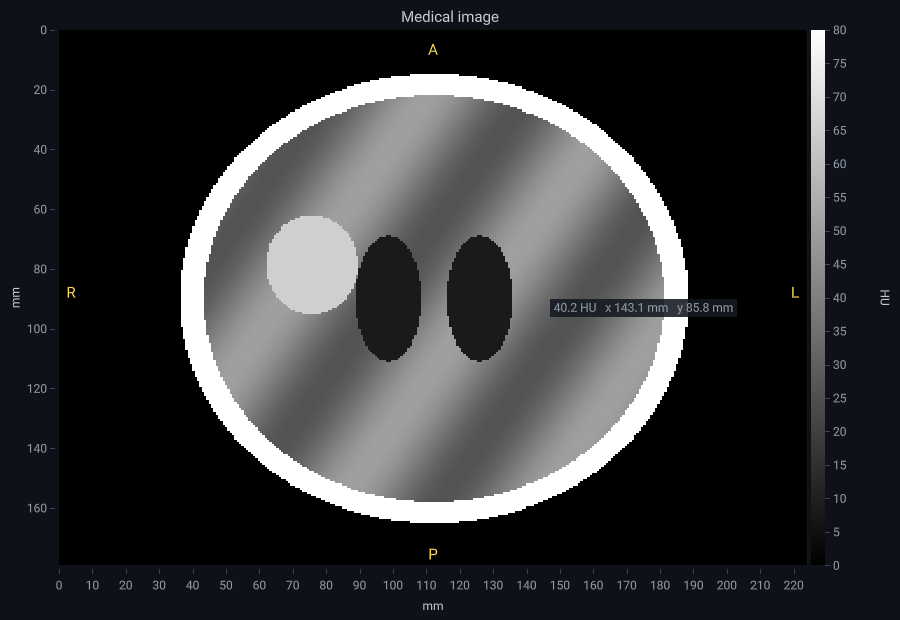
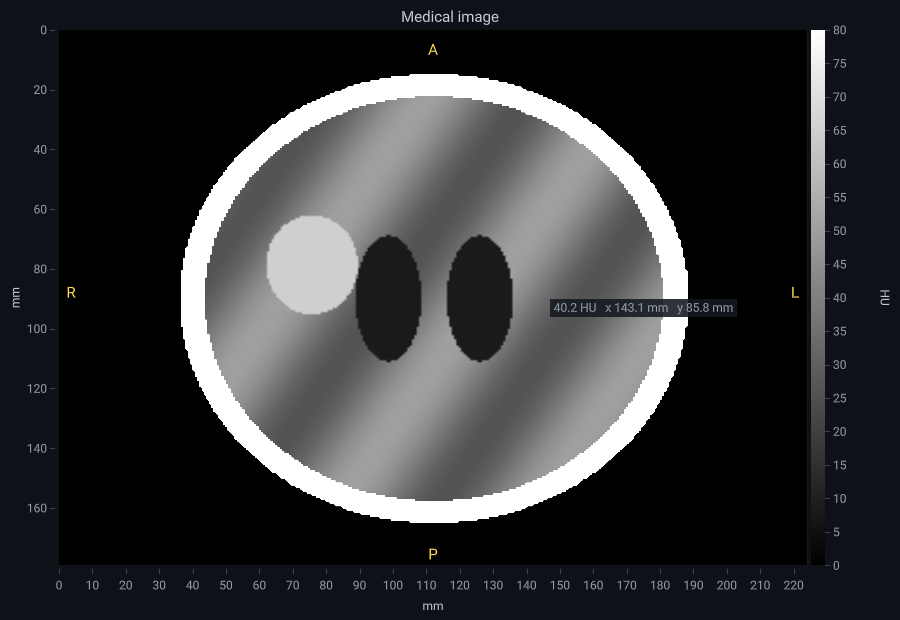
Improve medical image interpolation

Changed region(s): [[0.4667, 0.4597, 0.4978, 0.4903]]

diff --git a/src/Tachyon.Charts.Wpf/ChartElements.cs b/src/Tachyon.Charts.Wpf/ChartElements.cs
@@ -741,6 +741,10 @@ public sealed class HeatmapSeries : RasterSeriesElement
     public static readonly DependencyProperty YStepProperty = DependencyProperty.Register(
         nameof(YStep), typeof(double), typeof(HeatmapSeries), new PropertyMetadata(1.0, OnChanged));
 
+    /// <summary>Identifies the <see cref="IsInterpolated"/> property.</summary>
+    public static readonly DependencyProperty IsInterpolatedProperty = DependencyProperty.Register(
+        nameof(IsInterpolated), typeof(bool), typeof(HeatmapSeries), new PropertyMetadata(false, OnChanged));
+
     /// <summary>Gets or sets the left edge of the first column.</summary>
     public double XStart
     {
@@ -769,6 +773,13 @@ public sealed class HeatmapSeries : RasterSeriesElement
         set => SetValue(YStepProperty, value);
     }
 
+    /// <summary>Gets or sets a value indicating whether adjacent cell colors are blended.</summary>
+    public bool IsInterpolated
+    {
+        get => (bool)GetValue(IsInterpolatedProperty);
+        set => SetValue(IsInterpolatedProperty, value);
+    }
+
     /// <inheritdoc />
     internal override ChartSeries? Build(AxisBase x, AxisBase y)
     {
@@ -789,6 +800,7 @@ public sealed class HeatmapSeries : RasterSeriesElement
             XStep = XStep,
             YStart = YStart,
             YStep = YStep,
+            IsInterpolated = IsInterpolated,
         };
     }
 }
@@ -1271,6 +1283,7 @@ internal static class ChartElementFactory
                 XStep = heatmap.XStep,
                 YStart = heatmap.YStart,
                 YStep = heatmap.YStep,
+                IsInterpolated = heatmap.IsInterpolated,
             },
             _ => throw new NotSupportedException($"{definition.GetType().Name} has no element."),
         };

diff --git a/src/Tachyon.Charts.Core/Fluent/ChartBuilder.cs b/src/Tachyon.Charts.Core/Fluent/ChartBuilder.cs
@@ -157,6 +157,9 @@ public abstract record RasterDefinition : SeriesDefinition
 /// <summary>A described heatmap.</summary>
 public sealed record HeatmapDefinition : RasterDefinition
 {
+    /// <summary>Gets a value indicating whether adjacent cell colors are blended.</summary>
+    public bool IsInterpolated { get; init; }
+
     /// <summary>Gets the left edge of the first column.</summary>
     public double XStart { get; init; }
 
@@ -186,6 +189,7 @@ public sealed record HeatmapDefinition : RasterDefinition
         YStart = YStart,
         YStep = YStep,
         XEdges = XEdges,
+        IsInterpolated = IsInterpolated,
         Mask = Mask,
         YEdges = YEdges,
     };
@@ -727,6 +731,11 @@ public sealed class HeatmapBuilder
     /// <returns>This builder.</returns>
     public HeatmapBuilder Edges(IReadOnlyList<double>? xEdges, IReadOnlyList<double>? yEdges) =>
         Change(Definition with { XEdges = xEdges, YEdges = yEdges });
+
+    /// <summary>Blends adjacent cell colors when the heatmap is enlarged.</summary>
+    /// <param name="isInterpolated">Whether to blend adjacent cell colors.</param>
+    /// <returns>This builder.</returns>
+    public HeatmapBuilder Interpolated(bool isInterpolated = true) => Change(Definition with { IsInterpolated = isInterpolated });
 
     /// <summary>Shows only the cells inside polygons, for example the shape of a region.</summary>
     /// <param name="polygons">The polygons.</param>

diff --git a/src/Tachyon.Charts.Avalonia/ChartElements.cs b/src/Tachyon.Charts.Avalonia/ChartElements.cs
@@ -683,6 +683,9 @@ public sealed class HeatmapSeries : RasterSeriesElement
     /// <summary>Gets or sets the lower edge of the first row.</summary>
     public double YStart { get; set; }
 
+    /// <summary>Gets or sets a value indicating whether adjacent cell colors are blended.</summary>
+    public bool IsInterpolated { get; set; }
+
     /// <inheritdoc />
     internal override ChartSeries? Build(AxisBase x, AxisBase y) => DataSource is null ? null : new Core.Series.HeatmapSeries(Source<HeatmapData>(), x, y, GetColorAxis(string.Empty))
     {
@@ -691,6 +694,7 @@ public sealed class HeatmapSeries : RasterSeriesElement
         XStep = XStep,
         YStart = YStart,
         YStep = YStep,
+        IsInterpolated = IsInterpolated,
     };
 }
 
@@ -1089,6 +1093,7 @@ internal static class ChartElementFactory
                 XStep = heatmap.XStep,
                 YStart = heatmap.YStart,
                 YStep = heatmap.YStep,
+                IsInterpolated = heatmap.IsInterpolated,
             }, heatmap),
             _ => throw new NotSupportedException($"{definition.GetType().Name} has no element."),
         };

diff --git a/src/Tachyon.Charts.Core/Series/HeatmapSeries.cs b/src/Tachyon.Charts.Core/Series/HeatmapSeries.cs
@@ -48,6 +48,9 @@ public sealed class HeatmapSeries : RasterSeries
     private Vector2 _sectionOrigin;
     private Vector2 _sectionSize;
 
+    /// <summary>Gets or sets a value indicating whether adjacent cell colors are blended.</summary>
+    public bool IsInterpolated { get; set; }
+
     /// <summary>
     /// Initializes a new instance of the <see cref="HeatmapSeries"/> class.
     /// </summary>
@@ -188,7 +191,12 @@ public sealed class HeatmapSeries : RasterSeries
     {
         if (_texture is not null && Table is not null && _bounds.Width > 0 && _bounds.Height > 0)
         {
-            var style = ColorAxis.CreateRasterStyle() with { SectionOrigin = _sectionOrigin, SectionSize = _sectionSize };
+            var style = ColorAxis.CreateRasterStyle() with
+            {
+                SectionOrigin = _sectionOrigin,
+                SectionSize = _sectionSize,
+                IsInterpolated = IsInterpolated,
+            };
             if (_mask is not null)
             {
                 style = style with { MissingColor = default };

diff --git a/src/Tachyon.Charts.Medical/MedicalImageDisplay.cs b/src/Tachyon.Charts.Medical/MedicalImageDisplay.cs
@@ -194,6 +194,7 @@ public sealed class MedicalImageDisplay
             .AddHeatmap(_data, series => series
                 .Name(Unit)
                 .Cells(0, Spacing.Column, 0, Spacing.Row)
+                .Interpolated()
                 .ColorAxis(axis => axis.Colormap(Colormaps.Grayscale).Range(window.Minimum, window.Maximum).Title(Unit)))
             .Modifiers(modifiers => modifiers
                 .Custom(() => new MedicalImageModifier(this))

diff --git a/README.md b/README.md
@@ -186,7 +186,7 @@ It reads uncompressed single-frame grayscale DICOM Part 10 data in the three sta
 
 ![A synthetic axial medical image with millimetre axes, orientation marks and the value under the pointer](docs/images/medical-image.png)
 
-`MedicalImageDisplay` turns an image or rescaled array into an interactive grayscale chart. Left-drag adjusts window and level without rebuilding the image, common CT presets are included, and the pointer reports the value with its unit and physical position.
+`MedicalImageDisplay` turns an image or rescaled array into an interactive grayscale chart with bilinear display filtering. Left-drag adjusts window and level without rebuilding the image, common CT presets are included, and the pointer reports the original value with its unit and physical position.
 
 Tachyon Charts is not a medical device and is not approved or certified for diagnosis or therapy under the EU Medical Device Regulation (MDR). The application developer and operator remain responsible for the intended use, validation, privacy and every applicable regulatory requirement. See [Medical data and privacy](docs/guide/medical.md).
 

diff --git a/docs/guide/medical.md b/docs/guide/medical.md
@@ -66,7 +66,7 @@ The chart adds these interactions without platform-specific code:
 - middle-drag pans and the wheel zooms;
 - moving the pointer shows the rescaled value, its unit and the physical X/Y position.
 
-Window changes update only the color range. Pixel values and their GPU texture stay unchanged, which keeps the interaction responsive even for large images. Applications can also construct `MedicalImageDisplay` directly from a row-major span of rescaled values, spacing and orientation.
+Window changes update only the color range. Pixel values and their GPU texture stay unchanged, which keeps the interaction responsive even for large images. Bilinear display filtering smooths enlarged pixels, while the value probe continues to report the original sample. Applications can also construct `MedicalImageDisplay` directly from a row-major span of rescaled values, spacing and orientation.
 
 ## Building a volume
 
